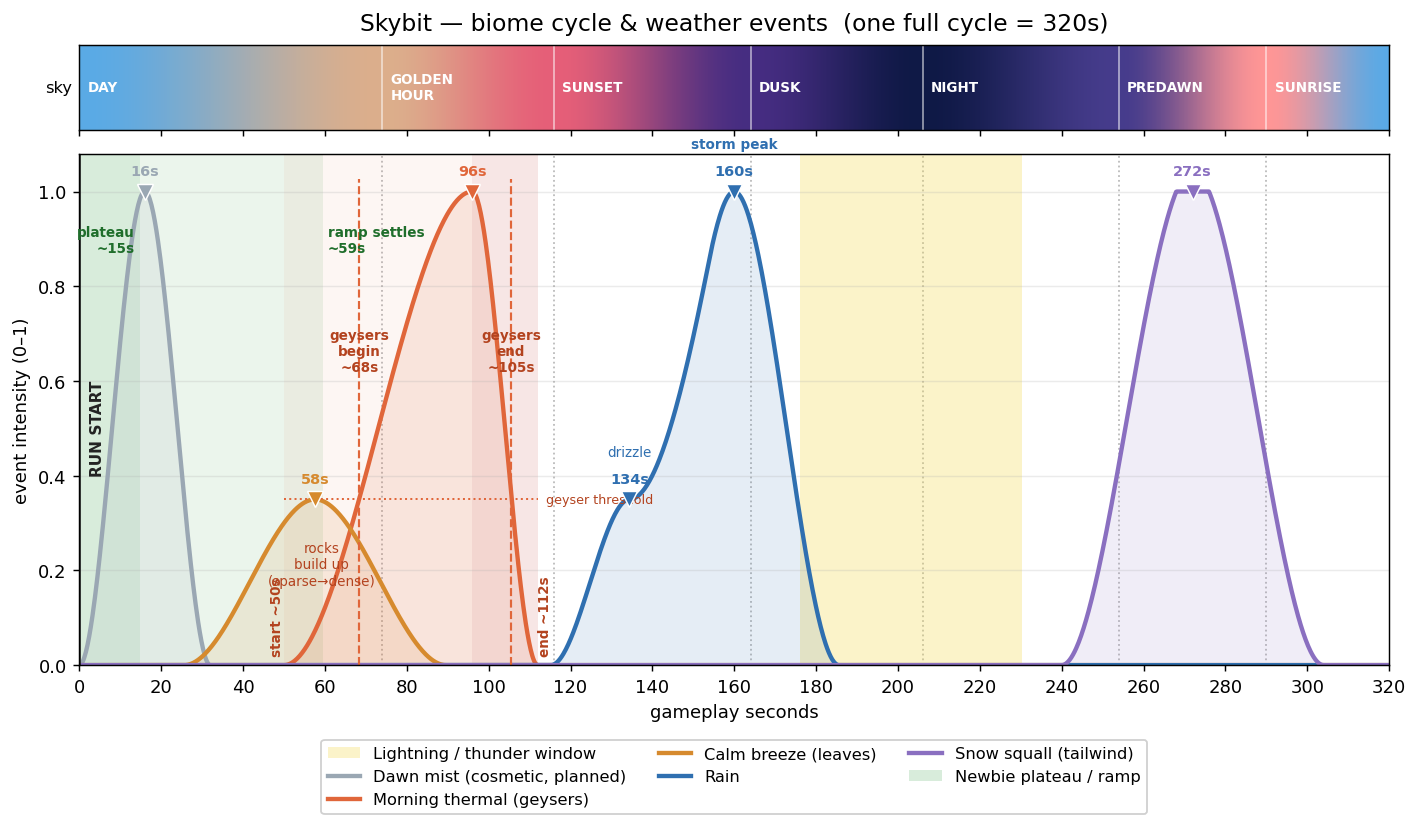
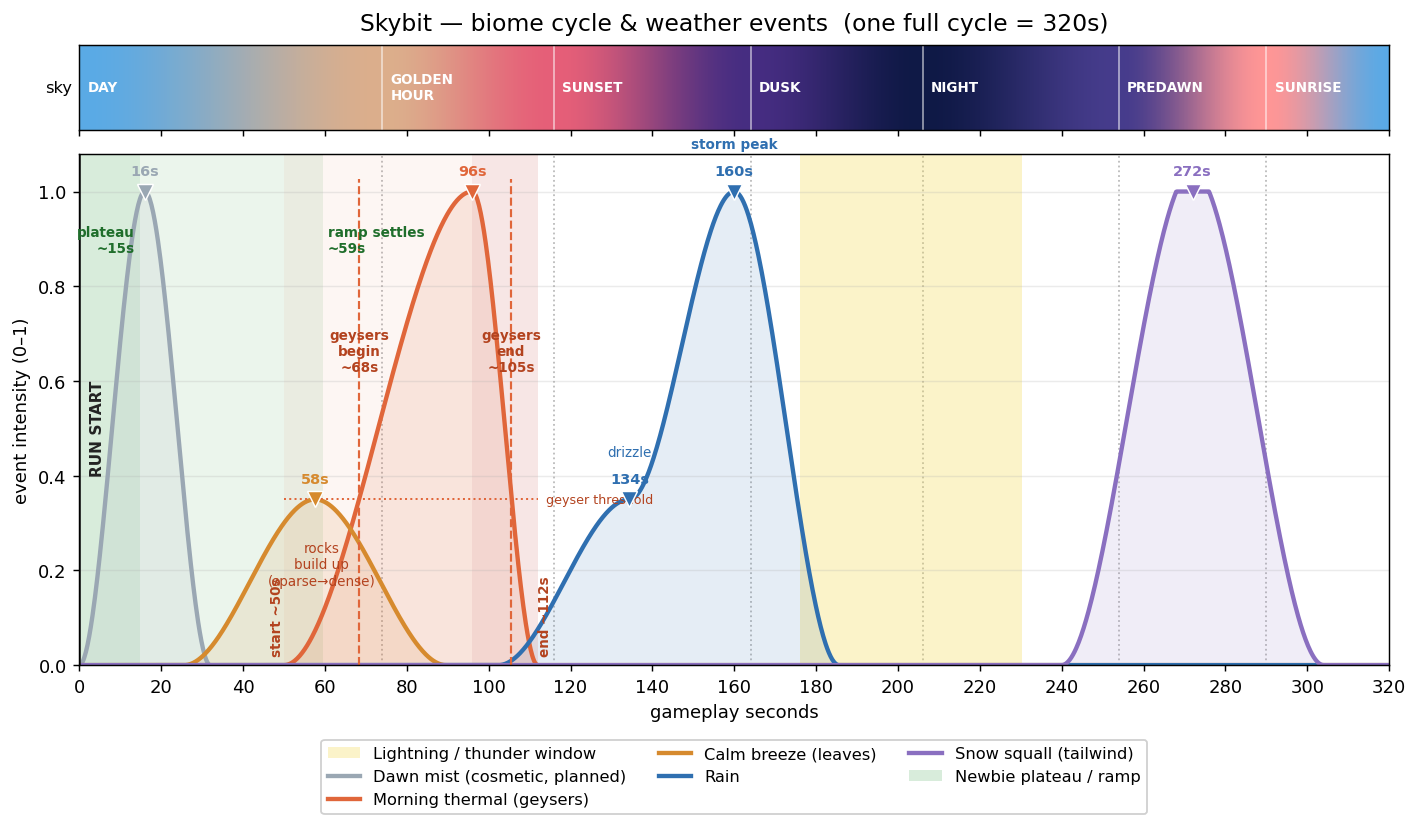
Rain: gradual drizzle that overlaps the geyser fade
Drizzle was a symmetric _bump centered at phase 0.42 (width 0.06), so
rain punched on at ~115 s with a 19 s ramp to its peak. The user
wanted it to start sooner and build gradually, even into the tail of
the morning-thermal geyser event.

Replaced the drizzle bump with _skew_bump(phase, 0.32, 0.42, 0.50):
long rise from phase 0.32 (102 s) to peak at phase 0.42 (134 s),
then a smooth fall that runs all the way to the storm bump's peak
at phase 0.50 (160 s). The fall and the storm's rise share the same
phase window, so the curve hands off without a notch.

What changes:
- Rain starts at ~102 s (was ~115 s) — ~10 s earlier.
- Rise is 32 s instead of 19 s — visibly gradual.
- At ~108 s the drizzle is at ~0.04 while geysers are still fading
  (last geyser ~112 s) — intentional weather crossfade.
- Drizzle peak (0.35 at 134 s) and storm peak (1.0 at 160 s) are
  unchanged. Total rain window grows ~70 s → ~85 s.

No callsite change needed: world.py:273's _update_rain_effects reads
rain_intensity live. Tests stay 10/10.

PNG regenerated at docs/screenshots/biome_event_timeline.png (same
path, link stays stable).

Changed region(s): [[0.4651, 0.2418, 0.5271, 0.5441], [0.3721, 0.6046, 0.4341, 0.8162], [0.4341, 0.5441, 0.4651, 0.6046]]

diff --git a/game/weather.py b/game/weather.py
@@ -41,11 +41,13 @@ def _skew_bump(phase: float, start: float, peak: float, end: float) -> float:
 
 
 def rain_intensity(phase: float) -> float:
-    """Rain runs only after the morning geyser event clears (phase >= ~0.36):
-    a light drizzle leads in, then the dusk thunderstorm peaks, then it's
-    done. No night residual — the whole rain period is ~70s, not ~150s."""
-    a = _bump(phase, 0.42, 0.06) * 0.35   # light drizzle (after geyser fade)
-    b = _bump(phase, 0.50, 0.08) * 1.00   # dusk thunderstorm peak
+    """Light drizzle begins late in the morning-thermal fade and builds
+    gradually to its peak (~134 s), then the dusk thunderstorm climbs on
+    top of it (peak ~160 s). The drizzle's leading ~8 s overlap with the
+    last fading geysers — a deliberate weather crossfade rather than a
+    hard onset. Total rain window ~85 s."""
+    a = _skew_bump(phase, 0.32, 0.42, 0.50) * 0.35  # gradual drizzle
+    b = _bump(phase, 0.50, 0.08) * 1.00              # dusk thunderstorm peak
     return max(0.0, min(1.0, a + b))
 
 
